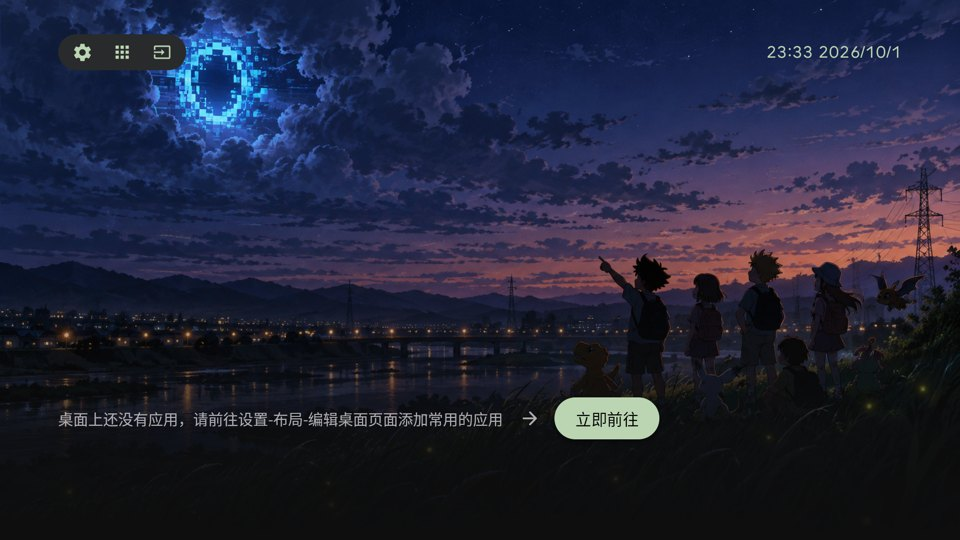
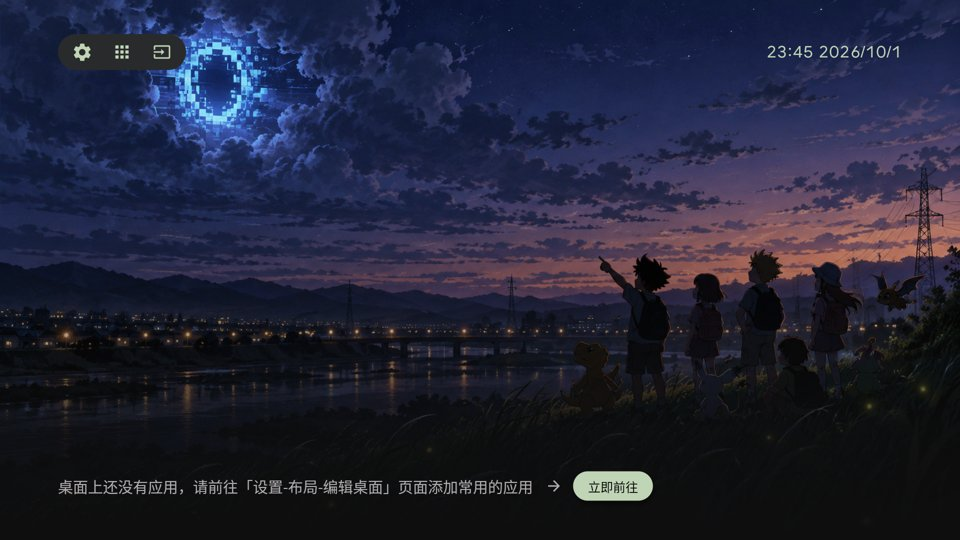
look: 空桌面那一行贴屏幕底边;「立即前往」胶囊改 28 dp / 12 号字(R161 改定)

diff --git a/app/src/main/java/com/uniteduone/launcher/HomeScreen.kt b/app/src/main/java/com/uniteduone/launcher/HomeScreen.kt
@@ -673,50 +673,6 @@ fun HomeScreen(
             // 每行 26.5dp 纵向漂移的来源之一(与 rowPitch() 假设的 ROW_GAP 对不上,见 GtvLayoutTest)。
             verticalArrangement = Arrangement.spacedBy(GtvLayout.ROW_GAP.dp),
         ) {
-            // 配置里的应用一个都装不到(或引导第 2 步选了跳过)时,屏幕上只剩时钟和顶栏,看着像坏了。
-            // R161(2026-10-01 Gordon):一句提示 → 箭头 → 「立即前往」小胶囊,焦点默认在胶囊上,确定直接进编辑页
-            // (那里每一行末尾的「＋」一次能加好几个;R161 前这句话指去所有应用里一张张「加到桌面」)。
-            // 放在卡片行这一列的最上面 = 第一行卡片本来在的位置(焦点线,屏幕下部);一行高,不会被底边截掉。
-            // 同晚 Gordon 看过电视改的样式:原来是两行提示 + 下面一颗 268 dp 的整条胶囊,「太丑」。
-            // **被整屏浮层盖着时不画**(M7 T10):浮层开着时这一页不可聚焦、焦点在浮层里;首次引导的 α 0.85 遮罩下
-            // 它还正好横在语言按钮与「继续」之间(模拟器截图实测)。previewing = false 时行为不变。
-            if (loaded != null && rows.isEmpty() && !previewing) {
-                Row(
-                    // gtv 线内读一个常量(Fix 5,终审 2026-09-20):这个文件里以前 Theme.SidePadding
-                    // 与 GtvLayout.CONTENT_KEYLINE 两个名字都指同一条 58dp 基准线,值相同、名字不同,
-                    // 是与纵向 26.5dp 漂移同一类的命名漂移,统一改读后者。
-                    modifier = Modifier.padding(horizontal = GtvLayout.CONTENT_KEYLINE.dp),
-                    verticalAlignment = Alignment.CenterVertically,
-                    horizontalArrangement = Arrangement.spacedBy(GtvLayout.EMPTY_HOME_ARROW_GAP.dp),
-                ) {
-                    // 文字可以折行(英文较长),但不把箭头与胶囊挤出屏幕
-                    BasicText(
-                        text = stringResource(R.string.home_empty_apps_hint),
-                        style = hintStyle,
-                        modifier = Modifier.weight(1f, fill = false),
-                    )
-                    androidx.tv.material3.Icon(
-                        imageVector = Icons.AutoMirrored.Rounded.ArrowForward,
-                        contentDescription = null,
-                        tint = hintStyle.color,
-                        modifier = Modifier.size(GtvLayout.EMPTY_HOME_ARROW_SIZE.dp),
-                    )
-                    CompactPill(
-                        label = stringResource(R.string.home_empty_go),
-                        onClick = onEditHome,
-                        // 上 = 顶栏的设置那颗;左右下都到头(这一行只有它一个可聚焦的东西)
-                        modifier = Modifier
-                            .focusRequester(emptyEditFocus)
-                            .focusProperties {
-                                up = gearFocus
-                                left = FocusRequester.Cancel
-                                right = FocusRequester.Cancel
-                                down = FocusRequester.Cancel
-                            },
-                        onFocusChange = { got -> report(EMPTY_EDIT_ROW, 0, got) },
-                    )
-                }
-            }
             // Ruling R43 → R48:哪一行的行图标是「焦点行」近白态(R48 前是行标题大白态)。焦点在顶栏药丸组
             // (tgtPill ≥ 0)→ 没有焦点行(-1);否则就是 activeRowSafe(整页位移用的同一个量,图标与位移同时变)。
             // 两者都只在卡片 / 药丸真的拿到焦点时改写、浮层 / ON_PAUSE 期间冻结,所以图标在浮层与退后台时
@@ -784,6 +740,60 @@ fun HomeScreen(
                             if (!restoring && movingNow == null) { tgtRow = rowIndex; tgtIdx[rowIndex] = idx }
                         }
                     },
+                )
+            }
+        }
+
+        // 配置里的应用一个都装不到(或引导第 2 步选了跳过)时,屏幕上只剩时钟和顶栏,看着像坏了。
+        // R161(2026-10-01 Gordon):一句提示 → 箭头 → 「立即前往」小胶囊,焦点默认在胶囊上,确定直接进编辑页
+        // (那里每一行末尾的「＋」一次能加好几个;R161 前这句话指去所有应用里一张张「加到桌面」)。
+        // **贴屏幕底边**(离底 EMPTY_HOME_BOTTOM_MARGIN):第一版放在卡片行那一列的最上面(焦点线,约 77% 高处),
+        // Gordon 电视上看过:「位置依然没有移到屏幕的底部」。不在卡片行那一列里,透明度与可聚焦跟它同一套(contentAlpha、!covered)。
+        // 同晚 Gordon 看过电视改的样式:原来是两行提示 + 下面一颗 268 dp 的整条胶囊,「太丑」。
+        // **被整屏浮层盖着时不画**(M7 T10):浮层开着时这一页不可聚焦、焦点在浮层里;首次引导的 α 0.85 遮罩下
+        // 它还正好横在语言按钮与「继续」之间(模拟器截图实测)。previewing = false 时行为不变。
+        if (loaded != null && rows.isEmpty() && !previewing) {
+            Row(
+                // gtv 线内读一个常量(Fix 5,终审 2026-09-20):这个文件里以前 Theme.SidePadding
+                // 与 GtvLayout.CONTENT_KEYLINE 两个名字都指同一条 58dp 基准线,值相同、名字不同,
+                // 是与纵向 26.5dp 漂移同一类的命名漂移,统一改读后者。
+                modifier = Modifier
+                    .align(Alignment.BottomStart)
+                    .padding(
+                        start = GtvLayout.CONTENT_KEYLINE.dp,
+                        end = GtvLayout.CONTENT_KEYLINE.dp,
+                        bottom = GtvLayout.EMPTY_HOME_BOTTOM_MARGIN.dp,
+                    )
+                    .alpha(contentAlpha)
+                    .focusProperties { canFocus = !covered },
+                verticalAlignment = Alignment.CenterVertically,
+                horizontalArrangement = Arrangement.spacedBy(GtvLayout.EMPTY_HOME_ARROW_GAP.dp),
+            ) {
+                // 文字可以折行(英文较长),但不把箭头与胶囊挤出屏幕
+                BasicText(
+                    text = stringResource(R.string.home_empty_apps_hint),
+                    style = hintStyle,
+                    modifier = Modifier.weight(1f, fill = false),
+                )
+                androidx.tv.material3.Icon(
+                    imageVector = Icons.AutoMirrored.Rounded.ArrowForward,
+                    contentDescription = null,
+                    tint = hintStyle.color,
+                    modifier = Modifier.size(GtvLayout.EMPTY_HOME_ARROW_SIZE.dp),
+                )
+                CompactPill(
+                    label = stringResource(R.string.home_empty_go),
+                    onClick = onEditHome,
+                    // 上 = 顶栏的设置那颗;左右下都到头(这一行只有它一个可聚焦的东西)
+                    modifier = Modifier
+                        .focusRequester(emptyEditFocus)
+                        .focusProperties {
+                            up = gearFocus
+                            left = FocusRequester.Cancel
+                            right = FocusRequester.Cancel
+                            down = FocusRequester.Cancel
+                        },
+                    onFocusChange = { got -> report(EMPTY_EDIT_ROW, 0, got) },
                 )
             }
         }

diff --git a/app/src/main/java/com/uniteduone/launcher/GtvLayout.kt b/app/src/main/java/com/uniteduone/launcher/GtvLayout.kt
@@ -250,12 +250,16 @@ object GtvLayout {
      *  像素量测(两药丸间隙 y 355→384 px,该图 1:1 对应 320dpi 实机,/2 得 dp)≈ 14.5 dp,取整 16。 */
     const val MENU_ITEM_GAP = 16f
     /** R161:空桌面那一行里,提示文字、箭头、「立即前往」小胶囊之间的间距。 */
-    const val EMPTY_HOME_ARROW_GAP = 16f
+    const val EMPTY_HOME_ARROW_GAP = 12f
     /** R161:那一行里箭头的大小。 */
-    const val EMPTY_HOME_ARROW_SIZE = 22f
-    /** R161:宽度随文字的小胶囊(空桌面「立即前往」)的高度与左右内边距;填色 / 放大同 MenuPill。 */
-    const val COMPACT_PILL_HEIGHT = 40f
-    const val COMPACT_PILL_PADDING_H = 20f
+    const val EMPTY_HOME_ARROW_SIZE = 18f
+    /** R161:宽度随文字的小胶囊(空桌面「立即前往」)的高度、左右内边距、字号;填色 / 放大同 MenuPill。
+     *  Gordon 电视上看过 40 dp / 15 sp 的一版:「高度太高了,字号也偏大了」→ 28 dp / 12 sp(Type.CAPTION)。 */
+    const val COMPACT_PILL_HEIGHT = 28f
+    const val COMPACT_PILL_PADDING_H = 14f
+    const val COMPACT_PILL_TEXT = Type.CAPTION
+    /** R161:空桌面那一行离屏幕底边的距离(Gordon:「文案本来就应该出现在底部」,焦点线那个高度不算底部)。 */
+    const val EMPTY_HOME_BOTTOM_MARGIN = 40f
     /** 左侧 banner 与应用名之间的间距。同一张参考图量测(banner 底 y 469 → 名字顶 ≈508 px)≈ 19.5 dp,取整 20。 */
     const val MENU_BANNER_NAME_GAP = 20f
     /** 药丸左右内边距(spec §2.3「菜单项 16sp」附近)。Fix 4 从字面量搬进来,数值不变。 */

diff --git a/app/src/main/java/com/uniteduone/launcher/ShellCapsule.kt b/app/src/main/java/com/uniteduone/launcher/ShellCapsule.kt
@@ -450,7 +450,16 @@ internal fun CompactPill(
             .padding(horizontal = GtvLayout.COMPACT_PILL_PADDING_H.dp),
         contentAlignment = Alignment.Center,
     ) {
-        MenuPillLabel(label, focused, textColor)
+        BasicText(
+            text = label,
+            maxLines = 1,
+            style = TextStyle(
+                fontFamily = Theme.Sans,
+                fontWeight = if (focused) FontWeight.Medium else FontWeight.Normal,
+                color = textColor,
+                fontSize = GtvLayout.COMPACT_PILL_TEXT.sp,
+            ),
+        )
     }
 }
 
